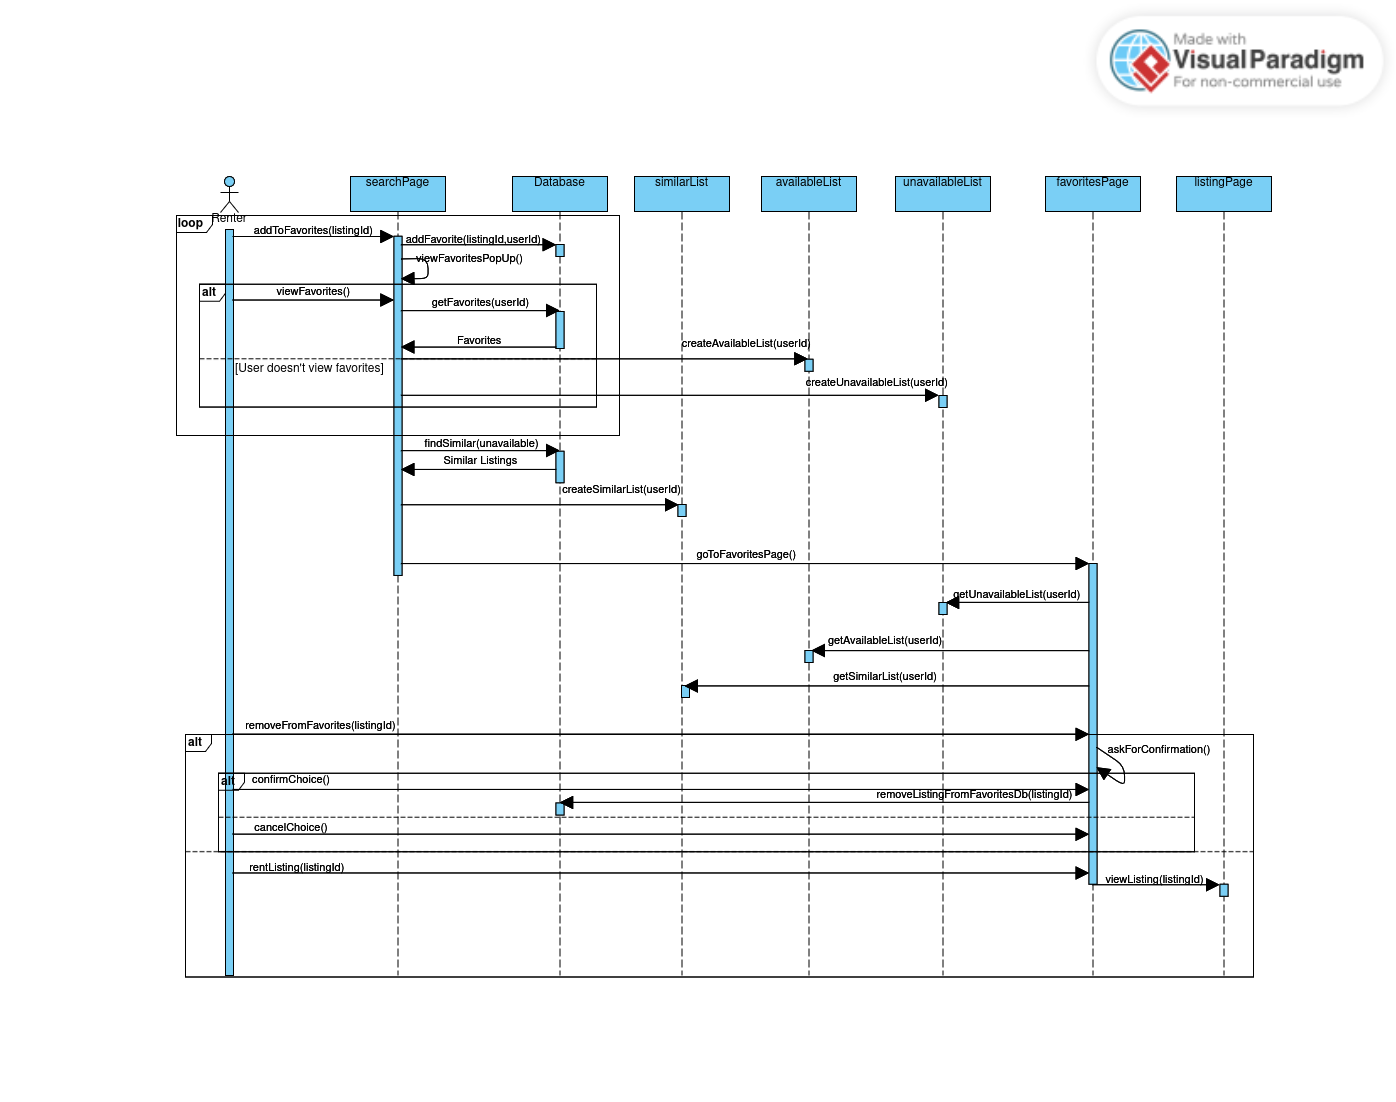
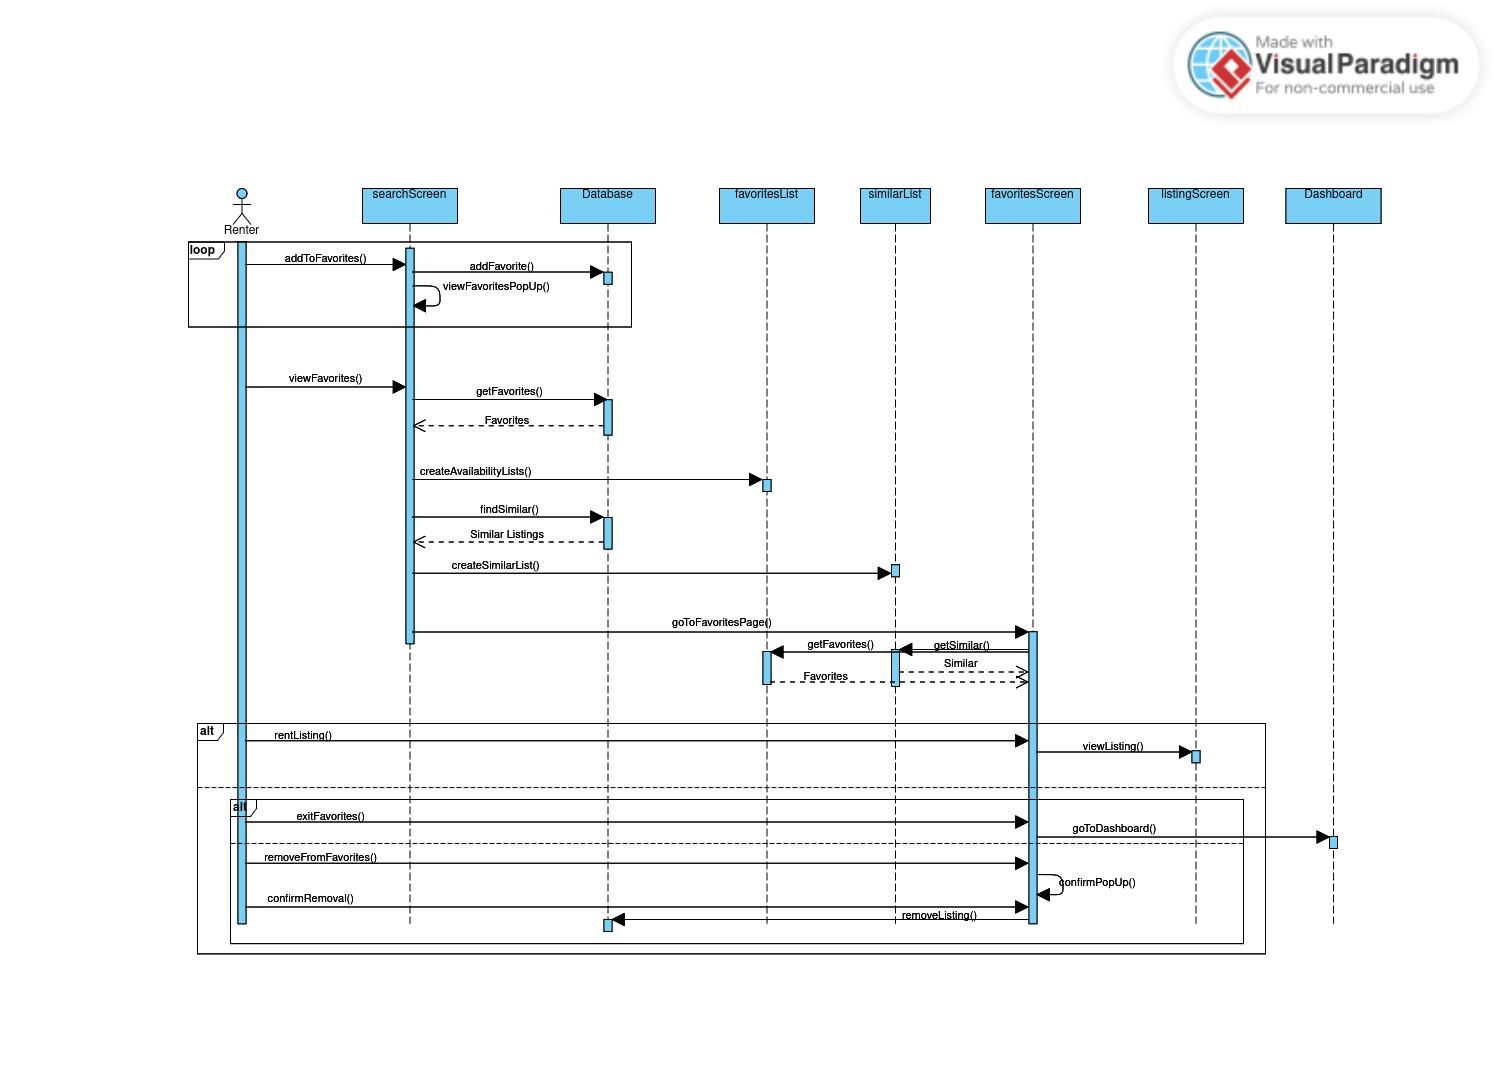
favorites & compare

Changed region(s): [[0.1232, 0.1546, 0.9241, 0.8969], [0.7701, 0.0309, 0.9857, 0.0928], [0.4004, 0.5876, 0.4312, 0.6186]]

diff --git a/v0.3/UC_Compare/use_case.md b/v0.3/UC_Compare/use_case.md
@@ -4,31 +4,30 @@
 1.  Ο ενοικιαστής επιλέγει την σύγκριση προϊόντων από την αρχική οθόνη
 2.  Το σύστημα ανακτά από τη βάση δεδομένων τις αγγελίες που είναι στα αγαπημένα και τις βάζει σε μία λίστα
 3.  Το σύστημα εμφανίζει στον ενοικιαστή την σελίδα σύγκρισης με τη δημιουργηθείσα λίστα
-4.  Ο ενοικιαστής επιλέγει αγγελίες από τις αγαπημένες αγγελίες 
-5.  Το σύστημα προσθέτει τις αγγελίες που επέλεξε ο ενοικιαστής σε μία λίστα των προς σύγκριση αγγελιών
+4.  Ο ενοικιαστής επιλέγει αγγελία από τις αγαπημένες αγγελίες 
+5.  Το σύστημα προσθέτει την αγγελία που επέλεξε ο ενοικιαστής σε μία λίστα των προς σύγκριση αγγελιών. Τα βήματα 4-5 επαναλαμβάνονται για όσες αγγελίες επιθυμεί ο ενοικιαστής
 6.  Ο ενοικιαστής επιλέγει να γίνει η σύγκριση των προϊόντων
 7.  Το σύστημα ελέγχει ότι οι αγγελίες στην λίστα σύγκρισης είναι τουλάχιστον δύο
 8.  Το σύστημα αναζητά στη βάση δεδομένων τα τεχνικά στοιχεία των αγγελιών της λίστας σύγκρισης
-9.  Το σύστημα χρησιμοποιεί AI assistance για να συγκρίνει τα εργαλεία με βάση τα τεχνικά στοιχεία τους
+9.  Το σύστημα στέλνει τη λίστα σε AI agent για να συγκρίνει τα εργαλεία με βάση τα τεχνικά στοιχεία τους
 10. Το σύστημα, με τη βοήθεια του AI, διαμορφώνει την απάντηση και την εμφανίζει στον ενοικιαστή
 11. Ο ενοικιαστής επιλέγει την αγγελία του εργαλείου που θέλει να νοικιάσει
 12. Το σύστημα μεταβιβάζει τον ενοικιαστή στην πλήρη περιγραφή της αγγελίας
 
 Εναλλακτικές Ροές:
 1. Δεν έχει λίστα αγαπημένων (από βήμα 3 της βασικής)
-6.1.1 Το σύστημα ανακτά από τη βάση δεδομένων τις τελευταίες καταχωρήσεις που έχουν γίνει και τις βάζει σε μια λίστα.
-6.1.2 Το σύστημα εμφανίζει στον ενοικιαστή την σελίδα σύγκρισης με τη δημιουργηθείσα λίστα
-6.1.3 Επιστροφή στο βήμα 3 της βασικής ροής 
+6.1.1 Το σύστημα εντοπίζει ότι δεν υπάρχουν αγγελίες στα αγαπημένα και μεταβιβάζει τον ενοικιαστή στη σελίδα αναζήτησης, για να προσθέσει αγαπημένα
+6.1.2 Το σύστημα εμφανίζει ενημερωτικό μήνυμα στον ενοικιαστή 
 
 2. Ελλιπείς εισαγωγές (από βήμα 7 της βασικής) 
 6.2.1 Το σύστημα ενημερώνει τον ενοικιαστή ότι έχει εισάγει μία μόνο αγγελία προς σύγκριση και του ζητάει να εισάγει περισσότερες αγγελίες
-6.2.2 Επιστροφή στο βήμα 2 της βασικής ροής
+6.2.2 Επιστροφή στο βήμα 4 της βασικής ροής
 
-3. Διαγραφή Αγγελίας (από βήμα 6 και 11 της βασικής) 
-6.3.1 Ο ενοικιαστής επιλέγει την διαγραφή μίας αγγελίας
+3. Διαγραφή Αγγελίας (από βήμα 6 της βασικής) 
+6.3.1 Ο ενοικιαστής επιλέγει την διαγραφή μίας αγγελίας από τη λίστα των προς σύγκριση αγγελιών
 6.3.2 Το σύστημα διαγράφει αυτή την αγγελία από τη λίστα των προς σύγκριση αγγελιών
 6.3.1 Επιστροφή στο βήμα 6 της βασικής ρουτίνας
 
-4. Προσθήκη Αγγελίας (από το βήμα 11 της βασικής)
-6.4.1 Ο ενοικιαστής επιλέγει την προσθήκη μίας αγγελίας
-6.4.2 Επιστροφή στο βήμα 2 της βασικής ρουτίνας
+4. Προσθήκη επιπλέον αγγελίας στην λίστα σύγκρισης (από το βήμα 11 της βασικής)
+6.4.1 Ο ενοικιαστής επιλέγει την προσθήκη μίας αγγελίας στην λίστα σύγκρισης
+6.4.2 Επιστροφή στο βήμα 4 της βασικής ρουτίνας

diff --git a/v0.3/UC_Favorites/use_case.md b/v0.3/UC_Favorites/use_case.md
@@ -2,7 +2,7 @@
 
 Βασική Ροή
 1.  Ο ενοικιαστής επιλέγει την προσθήκη μίας αγγελίας στα αγαπημένα από την σελίδα της αναζήτησης
-2.  Το σύστημα καταχωρεί στη βάση δεδομένων την επιλογή του ενοικιαστή
+2.  Το σύστημα καταχωρεί στη βάση δεδομένων την επιλογή του ενοικιαστή. Τα βήματα 1-2 επαναλαμβάνονται για όσες αγγελίες επιθυμεί ο ενοικιαστής
 3.  Το σύστημα εμφανίζει στον ενοικιαστή την επιλογή προβολής των αγαπημένων 
 4.  Ο ενοικιαστής επιλέγει την προβολή των αγαπημένων
 5.  Το σύστημα ανακτά από τη βάση δεδομένων τις αγγελίες που είναι στα αγαπημένα και την κατάσταση τους (Διαθέσιμες/ Μη Διαθέσιμες) και δημιουργεί δύο λίστες, μία για τις διαθέσιμες και μία για τις μη διαθέσιμες αγγελίες, και την ταξινομεί με βάση τη διαθεσιμότητα και την ημερομηνία προσθήκης τους στα αγαπημένα
@@ -15,19 +15,12 @@
 12. Το σύστημα τον μεταφέρει στην πλήρη περιγραφή της αγγελίας που επέλεξε
 
 Εναλλακτικές Ροές
-1. Έξοδος απο αγαπημένα (από βήμα 11 της βασικής)
-5.1.1 Ο ενοικιαστής επιλέγει την έξοδο από την προβολή των αγαπημένων
+1. Έξοδος από αγαπημένα (από βήμα 11 της βασικής ροής)
+5.1.1 Ο ενοικιαστής επιλέγει την έξοδο από την σελίδα των αγαπημένων
 5.1.2 Το σύστημα μεταφέρει τον ενοικιαστή στην αρχική σελίδα
-
-2. Δεν βλέπει αγαπημένα (από το βήμα 4 της βασικής)
-2.2.1 Ο ενοικιαστής δεν επιλέγει την προβολή των αγαπημένων και παραμένει στη σελίδα αναζήτησης
 
 2. Διαγραφή από τα Αγαπημένα (από βήμα 11 της βασικής ροής)
 5.2.1 Ο ενοικιαστής επιλέγει να αφαιρέσει μία αγγελία από τα αγαπημένα
 5.2.2 Το σύστημα ζητάει από τον ενοικιαστής την επιβεβαίωση της επιλογής του 
 5.2.3 Ο ενοικιαστής επιλέγει την επιβεβαίωση
 5.2.4 Το σύστημα ενημερώνει τη βάση δεδομένων για την αφαίρεση της αγγελίας και παραμένει στην οθόνη αγαπημένων
-
-3. Ακύρωση Διαγραφής (από βήμα 3 της εναλλακτικής ροής 3)
-5.3.1 Ο ενοικιαστής επιλέγει την ακύρωση της προηγούμενης επιλογής του 
-5.3.2 Το σύστημα καταγράφει την επιλογή του ενοικιαστή και παραμένει στην οθόνη αγαπημένων
